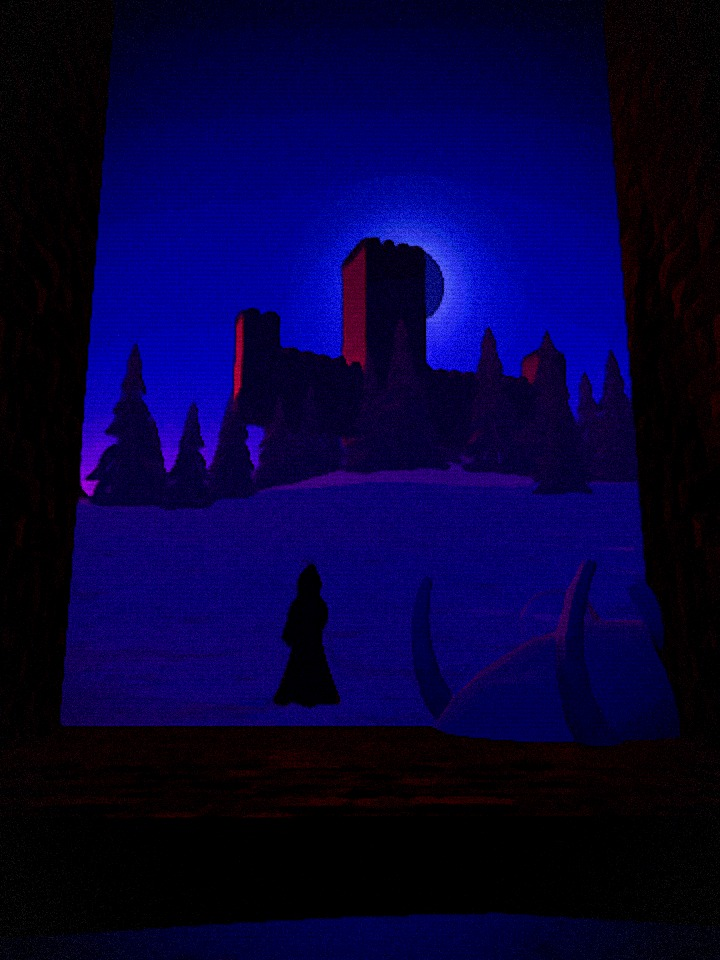
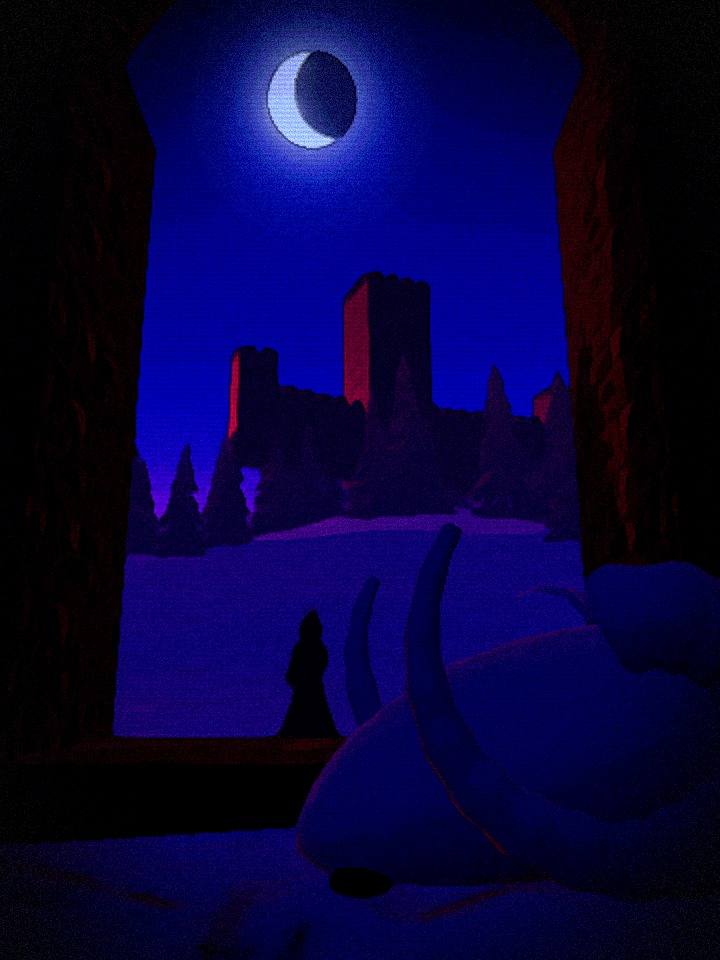
Reframe dark_08, dark_09, ref_03, ref_04, ref_10; fix armour hot-spots
- dark_08 3->6: camera inside the arch passage, crescent framed in the
  arch, horned skull in the foreground
- ref_03 3->6: low close-up, skeleton holding the golden skull
- ref_04 3->5: wizards face the camera, house behind the camera
- ref_10 3->5: knight close against the trunk
- dark_09 3->4: lower camera, red gate glow toned down
- armour hot-spots were the key lights placed behind the camera (specular
  dead-centre on every round plate): key lights moved side/high; env map
  is now captured without the moon disc; fill light off-axis

Claude-Session: https://claude.ai/code/session_01Mb2RLxway7QKL8XNuoyDQW

diff --git a/src/world/realm.js b/src/world/realm.js
@@ -77,7 +77,15 @@ export class Realm {
   }
 
   refreshEnv() {
+    // capture the sky without the moon disc: its tiny, very bright spot turns
+    // into hard white hot-spots on every metal surface (armour, wet stone)
+    const u = this.sky.uniforms;
+    const mb = u.moonBright.value, mg = u.moonGlow.value;
+    u.moonBright.value = Math.min(mb, 0.3);
+    u.moonGlow.value = mg * 0.3;
     const rt = this.pmrem.fromScene(this.envScene, 0, 0.1, 1000);
+    u.moonBright.value = mb;
+    u.moonGlow.value = mg;
     this.scene.environment = rt.texture;
     this.envRT?.dispose();
     this.envRT = rt;
@@ -128,7 +136,8 @@ export class Realm {
 
     this.sky.position.copy(p);
     this.fill.target.position.copy(p);
-    this.fill.position.set(-2, 3, 4).applyQuaternion(camera.quaternion).add(p);
+    // off-axis (upper left) so its specular highlight never sits dead-centre on round armour
+    this.fill.position.set(-6, 5, 1.5).applyQuaternion(camera.quaternion).add(p);
     this.world.update(dt, time, p);
     this.lightPool.update(p, time);
 

diff --git a/src/world/characters.js b/src/world/characters.js
@@ -39,7 +39,7 @@ export function armorMaterial(assets, color = 0xb4aed0, dull = false) {
   return cached(`armor:${color}`, () => {
     const t = assets.pbr('metal_plate', [2, 2], { color: false });
     const m = new THREE.MeshPhysicalMaterial({
-      color, metalness: 0.55, roughness: 0.32, roughnessMap: t.roughnessMap, normalMap: t.normalMap,
+      color, metalness: 0.55, roughness: 0.42, roughnessMap: t.roughnessMap, normalMap: t.normalMap,
       normalScale: new THREE.Vector2(0.25, 0.25), clearcoat: 0.3, clearcoatRoughness: 0.2, envMapIntensity: 0.55,
     });
     return stylize(m, { rim: 0.55, rimPower: 3.0 });
